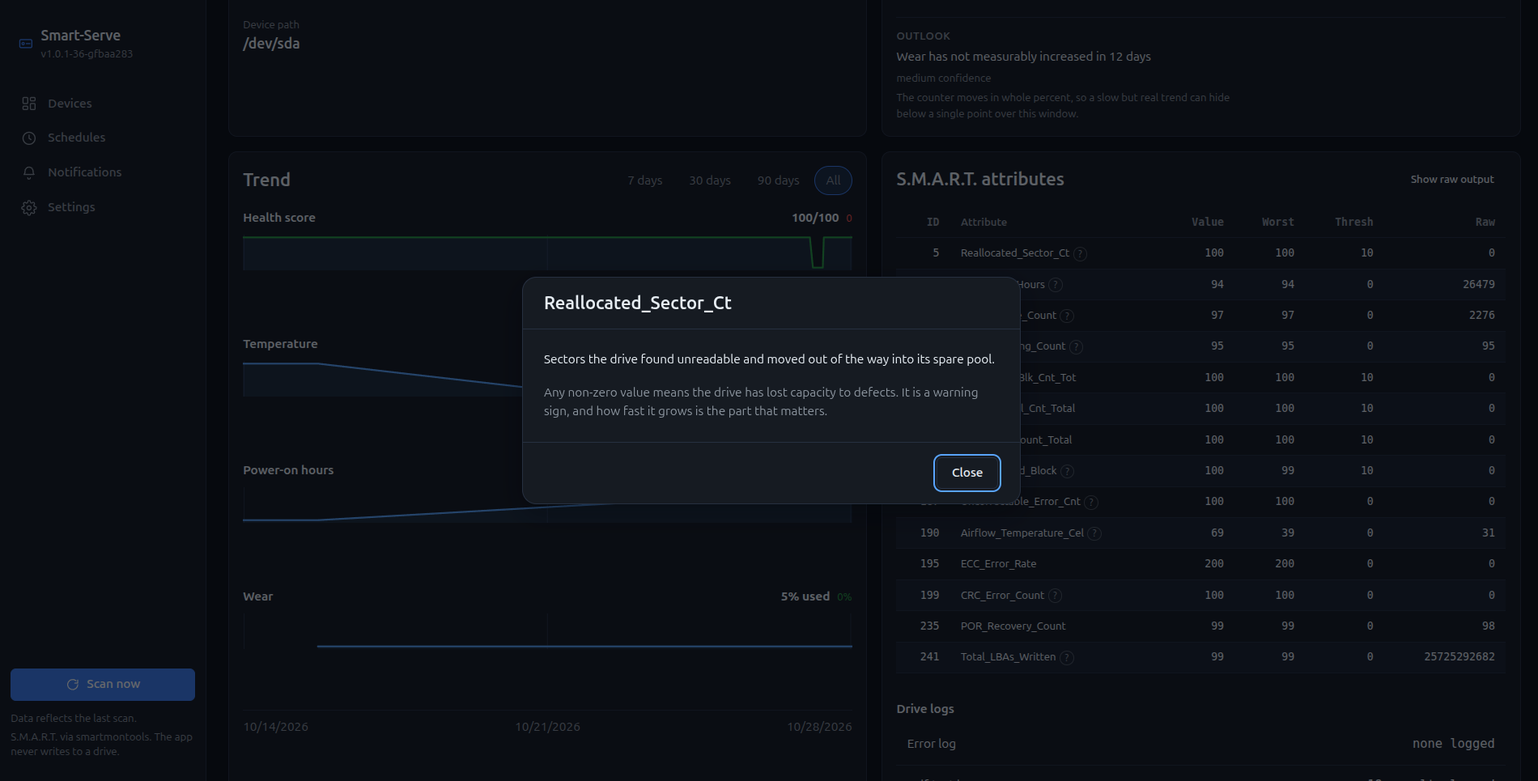
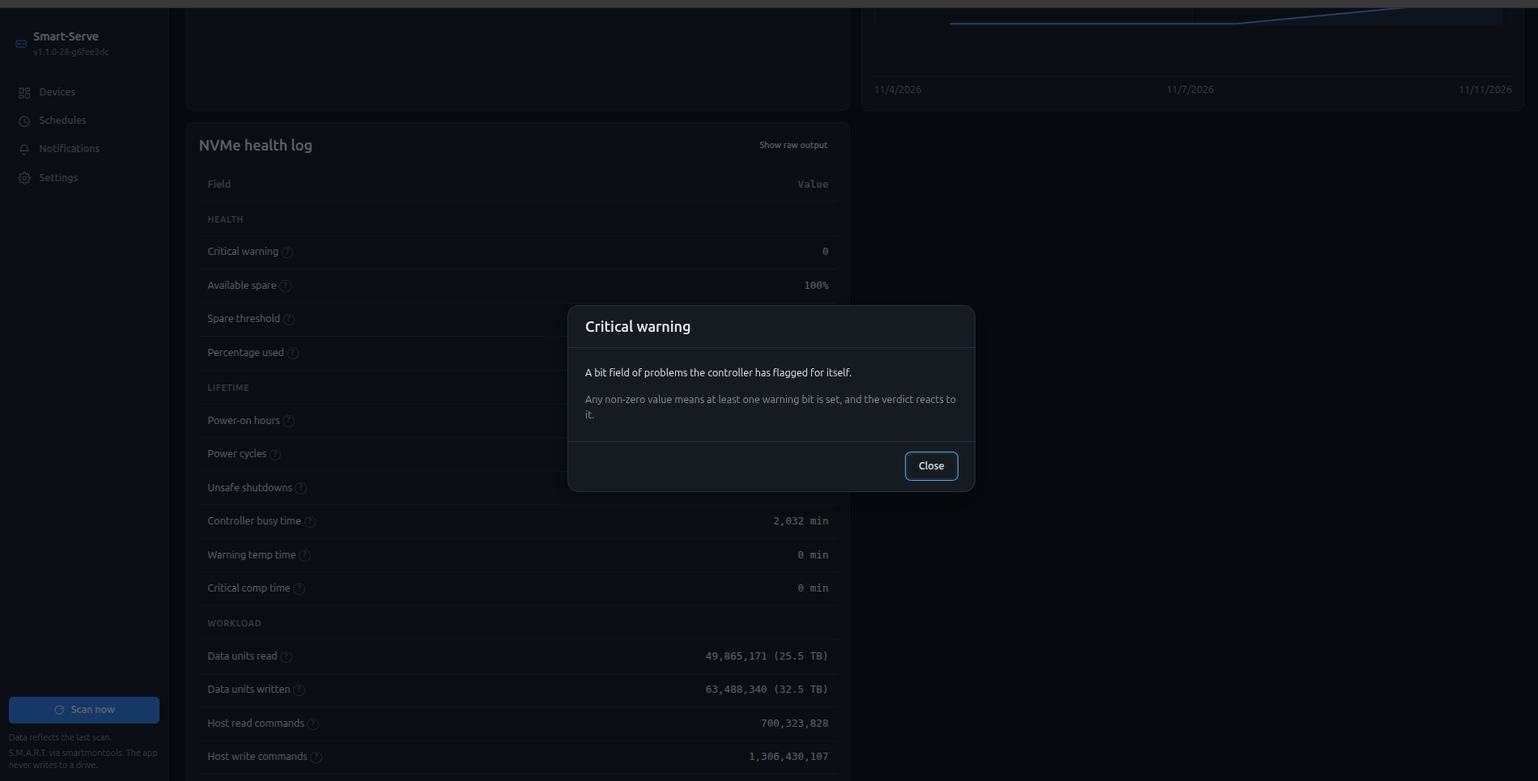
docs: the ARM retest passes, and the screenshots are current
The 2026-11-11 retest, recorded where it belongs.

**Both defects the Pi found are fixed and confirmed fixed**, on the Pi and on
amd64, in both variants of the self-test check: staying on the page, the bar
cleared by itself when the drive finished with no `Scan now` and no unread-log
notice; leaving for the fleet, the testing badge tracked the run and cleared with
it. The SD-card page left open produces no flicker and no toast storm, and the
dashboard/disconnected checks pass. Pass 8 keeps the failure record and gains a
retest table, so the record reads as a history rather than as an open bug list.

One caveat recorded rather than smoothed over: the retest was against a local
build of the fixes, not the published image.

**The idle budget is the one ARM criterion still open, and it cannot be settled
on that host as things stand.** CPU passes — about 0.02% over an idle minute, with
the scan count unchanged — but `docker stats` reports `0B / 0B` for memory there,
leaving the process's own `VmRSS` at 21.25 MiB. That is not the metric the
under-20-MB criterion names, and the two are not interchangeable: on the amd64
host the same build reads 18.4 MiB by `docker stats` and 30.0 MiB by `VmRSS`. The
note now says so, and gives the cgroup read that would produce a comparable
figure, instead of leaving a 21.97 MiB sample to be read as a failure.

Screenshots replaced with current ones — the fleet with storage bars, the
[…]

diff --git a/docs/TESTING.md b/docs/TESTING.md
@@ -221,27 +221,17 @@ The maintenance card is absent when there are no windows — that is the design,
 
 ## Pass 8 — arm64 (Raspberry Pi)
 
-**Status: partial hardware verification, updated 2026-11-08.** Smart-Serve is running on a
-Raspberry Pi 5 with DietPi. The operator previously reported building, starting and scanning;
-the supplied SSH outputs confirm native arm64 execution, HTTP health, device-access configuration,
-USB SAT discovery and a successful full smartctl read of the attached WDC disk. The operator has
-also completed an app scan and verified its displayed identity, attribute count and selected raw
-values. A short test completed without error, but the automatic UI completion check **failed**:
-the page stayed at `90% left` after waiting and reloading. The live API reported completion,
-while the captured saved record contained `remaining: 90` and an unread-log flag, matching the
-source path that skips a live refresh. **That path is fixed** (see 8.8): the flag was raised for a
-log the app *does* read, and the card no longer skips its live read. The operator then clicked
-**Scan now**: the progress bar cleared, short/long test buttons returned, and the successful history
-entry appeared and persisted after reload — so **manual recovery and completed-history display
-passed**, and the automatic-completion check needs a retest against the fixed build. A similar
-symptom is reported on amd64, so an ARM-specific fault is not established. The SD card is visible in
-the app, but opening its page caused flicker and repeated `scan complete: 0/1 readable` toasts: its
-no-repeat-scan check **failed**. The API confirms `last_scan: null`, a device-type detection error
-and five failed device reads in the same displayed second, matching the retry path in source.
-**That loop is fixed too** (see 8.9): at most one attempt per refresh window, per drive. Returning
-to the dashboard stops the repeated scans, which remains the workaround for any build without the
-fix. Both defects need a retest on this hardware; the next check compares dashboard health and
-disconnected-device display with the API. Other checks and parity remain open.
+**Status: both defects found here are fixed and retested; idle acceptance and stability remain open.
+Updated 2026-11-11.** Smart-Serve runs on a Raspberry Pi 5 with DietPi, and the SSH outputs and operator
+reports confirm native arm64 execution, HTTP health, device-access configuration, USB SAT discovery, a
+full container smartctl read of the attached WDC disk, and the app's displayed identity, attribute count
+and raw values. The 2026-11-08 session then turned up two defects — a short test whose progress never
+cleared, and an SD-card page that re-read itself in a loop — both diagnosed from that session's own
+captures and fixed (8.8, 8.9). **Both were retested on 2026-11-11 against `v1.1.0-28-g6fee3dc` and
+passed**, on this Pi *and* on the amd64 host, together with the dashboard and disconnected-device checks.
+The idle budget is the one ARM criterion still unsettled: CPU is confirmed near zero, but this host
+reports no usable Docker memory figure, so the under-20-MB claim cannot be measured here with the same
+metric the reference host used (8.5).
 CI builds both architectures but does not run the application against ARM hardware.
 
 This section is the ARM verification record; setup is in
@@ -286,12 +276,12 @@ Existing test numbers are retained so subsequent results can refer to them.
 | 8.2 | Device-access setup, startup probe and HTTP health. | **Verified for this setup.** Probe: `device access ok`, `devices=2`, `probed=/dev/sda`; server listening on `:8080`; Docker `healthy`. This probe alone does not verify full SMART reads or every drive. |
 | 8.3 | Container SMART read and app scan, identity and attribute-table checks. | **Passed for this disk/setup.** The container read returned exit 0. The operator completed an app scan and confirmed the WDC model, matching serial, 17 attributes and raw values 0 for IDs 5, 197 and 198, with no apparent errors or missing values. Other displayed fields were not individually compared. |
 | 8.4 | USB transport and any required override. | **SAT discovery, explicit SAT read and app scan verified for current settings.** `--scan-open` detected `sat` / `ATA`; the full read succeeded with `-d sat`. The app also reads the disk successfully. Its override setting was not reported, so automatic-vs-manual transport selection is not established. Override controls, bridge chipset and any second bay remain unverified. |
-| 8.5 | Ten-minute idle CPU/RSS measurement with no browser, scan or self-test active. | **Single sample recorded; idle acceptance pending.** CPU `0.04%`; process RSS/high-water mark `22,496 kB` (about **21.97 MiB**); 11 threads; 16 file descriptors; restart count 0; `OOMKilled=false`. Browser/workload conditions were not captured. |
+| 8.5 | Ten-minute idle CPU/RSS measurement with no browser, scan or self-test active. | **CPU passed; memory cannot be measured with the criterion's own metric on this host.** Across a 61-second sample inside a 10-minute idle period, the process used **1 CPU tick** — about **0.02%** — and the scan count was unchanged (44 before and after), so nothing ran. `docker stats` reports **`0B / 0B`** for memory here (see the note below), leaving the process's own `VmRSS` as the only figure: **21.25 MiB**, flat across the sample. That is *not* the metric the criterion was written against — the reference host's 13.36 MiB came from `docker stats` — and the two are not interchangeable: on the amd64 host this same build reports **18.4 MiB** by `docker stats` and **30.0 MiB** by `VmRSS`. So this host is very probably inside the budget, and this capture does not prove it. |
 | 8.6 | NVMe temperature, health fields and comparison with amd64. | **Not tested.** No NVMe device appears in this capture. |
 | 8.7 | Overnight scheduled scans and stable memory/file-descriptor usage. | **Not tested.** Startup and later log timestamps alone do not establish a controlled stability run. |
-| 8.8 | App-triggered short self-test: start, progress, completion and result after page reload. | **Drive completion passed; UI running-state check failed, and the cause is now fixed — retest needed.** Direct smartctl output shows execution status 0 and the newest short test `Completed without error` at 45,446 hours. The operator confirmed the app continues showing `90% left` and only **Stop test** after extended waiting and manual reload. The live API confirmed completion (`passed: true`, no `running`) but also set `self_test_log_unread` for the selective-test log; the saved record from 16:02:49 UTC (scan 18) carried that flag and `remaining: 90`. **Fixed:** the flag was raised for a log the app reads (see the 8.8 fix note below), and the card no longer skips its live read on mount. **Manual recovery and completed-log visibility passed:** after **Scan now**, the progress bar disappeared, short/long buttons returned and the successful short offline entry was visible; these results survived a page reload. Exact duration remains unverified, and the fixed build has not been run on this hardware. A similar symptom is reported on amd64. |
-| 8.9 | SD-card discovery in the app, unsupported-SMART notice and absence of repeated automatic scans. | **App visibility verified; no-repeat-scan check failed, and the cause is now fixed — retest needed.** The API reports `last_scan: null`, `smart_available: false`, health/cause `unknown`, and `Unable to detect device type`. Scan IDs 175–179 each record one failed device read at 22:09:03 UTC. The operator confirms the repeated scans occur on the SD-card page and stop on returning to the dashboard. **Fixed:** the staleness re-read is now bounded to one attempt per refresh window, per drive (see the 8.9 fix note below). Dashboard health rendering and the detail-page notice remain unverified; the fixed build has not been tested on amd64. |
-| 8.10 | Disconnected-device inventory and dashboard filter. | **API state captured; UI check pending.** Three historical records have `is_missing: true`; the SD card and tested 2 TB WDC disk have `is_missing: false`. This records API state, not independent verification of physical attachment or a hotplug/reconnect test. |
+| 8.8 | App-triggered short self-test: start, progress, completion and result after page reload. | **Drive completion passed; UI running-state check failed, and the cause is now fixed — retest needed.** Direct smartctl output shows execution status 0 and the newest short test `Completed without error` at 45,446 hours. The operator confirmed the app continues showing `90% left` and only **Stop test** after extended waiting and manual reload. The live API confirmed completion (`passed: true`, no `running`) but also set `self_test_log_unread` for the selective-test log; the saved record from 16:02:49 UTC (scan 18) carried that flag and `remaining: 90`. **Fixed:** the flag was raised for a log the app reads (see the 8.8 fix note below), and the card no longer skips its live read on mount. **Manual recovery and completed-log visibility passed:** after **Scan now**, the progress bar disappeared, short/long buttons returned and the successful short offline entry was visible; these results survived a page reload. **Retested 2026-11-11 on `v1.1.0-28-g6fee3dc` — passed**, on this Pi and on the amd64 host, in both variants: staying on the page, the progress cleared **on its own** when the drive finished, the buttons returned and the log gained the completed entry; leaving the page and watching the fleet, the testing badge tracked the run and cleared with it. No unread-log notice appeared. Exact duration remains unverified. |
+| 8.9 | SD-card discovery in the app, unsupported-SMART notice and absence of repeated automatic scans. | **App visibility verified; no-repeat-scan check failed, and the cause is now fixed — retest needed.** The API reports `last_scan: null`, `smart_available: false`, health/cause `unknown`, and `Unable to detect device type`. Scan IDs 175–179 each record one failed device read at 22:09:03 UTC. The operator confirms the repeated scans occur on the SD-card page and stop on returning to the dashboard. **Fixed:** the staleness re-read is now bounded to one attempt per refresh window, per drive. **Retested 2026-11-11 on `v1.1.0-28-g6fee3dc` — passed:** leaving the SD card's page open produced no flicker and no toast storm. The per-window read count was not re-measured in this retest, and the detail-page notice remains unverified. |
+| 8.10 | Disconnected-device inventory and dashboard filter. | **Passed 2026-11-11.** With filters clear the SD card reads **Unknown** and the tested 2 TB WDC disk reads **Good**, and **Show 3 disconnected** lists the three historical records. This verifies rendering of the saved API state, not physical hotplug detection. |
 
 **Observations to retain for follow-up:**
 
@@ -306,10 +296,10 @@ Existing test numbers are retained so subsequent results can refer to them.
   and `/`; the container instead sees its own mounts, including `/data` and `/etc/hosts`.
   The latest API storage summary selects `/etc/resolv.conf` at 19% used. Host mountpoint and
   filesystem-usage parity are not verified by this container-visible figure.
-- Docker reported memory as `0B / 0B`, which is not a usable memory measurement here; its cause
-  remains unverified. The process RSS above comes from `/proc/1/status`. It exceeds the stated
-  under-20-MB target at that instant, so do not mark the ARM idle budget as passed. Repeat under
-  controlled idle conditions; keep container memory and process RSS separate.
+- Docker reported memory as `0B / 0B` on the Pi, which is not a usable memory measurement; its cause
+  remains unverified. The process's own `VmRSS` from `/proc/1/status` is the only figure available, and
+  it is not the metric the MVP criterion names — see 8.5. Keep container memory and process RSS separate
+  when reading any figure from this host.
 - `scheduler started` and `dispatching notifications` appeared in the logs. Neither proves
   scheduled scans completed or a notification reached its destination.
 
@@ -413,20 +403,36 @@ Returning to the dashboard stops it, which was the workaround.
 window is the pass, not five in a second, and reopening after the window elapses should produce one
 more. Covered by `a drive that cannot be read is not read over and over`; the hardware does not.
 
-### Next step — 8.9/8.10, dashboard health and disconnected-device display
+### Retested — 8.8 and 8.9 both pass, 2026-11-11
 
-Stay on the dashboard; do not reopen the SD-card detail page for these checks.
+Both defects were retested against `v1.1.0-28-g6fee3dc` — the local development image built from the
+fixes — on this Pi **and** on the amd64 host. Same actions that failed on 2026-11-08:
 
-1. With display filters clear, confirm that the SD card shows **Unknown** and the tested 2 TB WDC
-   disk shows **Good**. Report the actual labels if different.
-2. Click **Show 3 disconnected** and check that the Samsung 250 GB SSD (`S21NNSAFC00417P`) and the
-   two 10 TB WDC disks (`VCKJ5Y0P`, `VCKJ95DP`) appear as disconnected records. If they are already
-   shown, use the corresponding **Hide** toggle to verify filtering, then restore the preferred view.
-   Do not open their detail pages or run scans for this check.
+| Check | Result |
+|---|---|
+| 8.8 short test, staying on the page | **Passed, both hosts.** Progress cleared on its own when the drive finished; the short/long buttons returned; the log gained the completed entry. No **Scan now** needed, and no unread-log notice. |
+| 8.8 short test, leaving for the fleet | **Passed, both hosts.** The testing badge tracked the running test and cleared when it finished. |
+| 8.9 SD-card page left open | **Passed.** No flicker, no `0/1 readable` toast storm. |
+| 8.10 dashboard health and disconnected display | **Passed.** SD card **Unknown**, WDC disk **Good**; **Show 3 disconnected** lists the three historical records. |
 
-This validates rendering of the saved API state, not physical hotplug detection. Both defects above
-are fixed in source and need a retest on this hardware. Resource/stability, scheduling and
-restart/reboot checks remain pending.
+The retest was against a **local build**, not the published image — the source is identical and CI
+builds the same Dockerfile, but the record should say so. Re-running the 8.8 check against the
+published tag takes about four minutes and is worth doing if the release needs that stronger claim.
+
+### Still open on this hardware
+
+1. **Idle budget (8.5).** CPU is confirmed near zero; memory needs a figure this host can produce.
+   `docker stats` reports `0B / 0B` here, so read the container's own cgroup instead:
+   ```sh
+   docker exec smart-serve-dev sh -c \
+     'cat /sys/fs/cgroup/memory.current 2>/dev/null || \
+      cat /sys/fs/cgroup/memory/memory.usage_in_bytes 2>/dev/null'
+   ```
+   That is the number `docker stats` is derived from, so it is directly comparable with the reference
+   host's 13.36 MiB.
+2. **8.7 overnight stability** — scheduled scans and stable memory/file-descriptor use over a full night.
+3. **8.6 NVMe** — no NVMe device is attached to this host.
+4. **Restart/reboot persistence**, and identity across a different enclosure bay.
 
 ## Pass 7 — cross-cutting
 

diff --git a/docs/RELEASE.md b/docs/RELEASE.md
@@ -91,10 +91,12 @@ migrations (`0015`–`0017`); no schema rewrite, so the v1.1.0 rollback note sti
   no-partition-table path names a disk by its `blkid` signature — `linux_raid_member`, and so on — and
   the fixtures prove the naming, but nothing has pulled a disk from an array and opened its page
   (`TESTING.md` 4.73, `FEATURES.md` A28). This is the weakest claim in the release.
-- **arm64: the two fixed defects need a retest on the Pi**, and **idle-budget acceptance is unmeasured
-  there.** The first RSS sample was 21.97 MiB, above the MVP's under-20-MB criterion — but it was not a
-  controlled idle measurement, and the reference host measures 13.4 MiB. Do not read the release as
-  passing that criterion on ARM until it is measured properly (`TESTING.md` Pass 8).
+- **arm64 idle-memory acceptance is unmeasured**, and cannot be measured on that host as things stand —
+  `docker stats` reports `0B / 0B` there. CPU is confirmed near zero (about 0.02% over an idle minute,
+  with the scan count unchanged). The process's own `VmRSS` is 21.25 MiB, which is *not* the metric the
+  under-20-MB criterion names: on the amd64 host the same build reads **18.4 MiB** by `docker stats` and
+  **30.0 MiB** by `VmRSS`. Read the container's cgroup for a comparable figure (`TESTING.md` Pass 8).
+  The two defects this host found are fixed and **retested on 2026-11-11**, on both architectures.
 - **The image size was last measured at v1.0.0** (14.8 MB content / 53.5 MB on disk, 2026-10-17). This
   release changes no base image and adds no runtime dependency, so those figures should still hold —
   but `Dockerfile` installs `smartmontools` and `util-linux` **unpinned**, so the base is not actually
@@ -108,20 +110,23 @@ breakdown's `attribute_id` — the v1.1.0 note asking for it is done (`FEATURES.
 artifact rather than a local build — and every ARM check so far has been against a local development
 image. Tag `v1.2.0` once that retest passes.
 
-## Screenshots to take
+## Screenshots
 
-Needed for the README and for the release announcement. In priority order:
+The README's set, cropped to the app viewport and committed to `docs/images/`:
 
-1. **Dashboard** with several drives attached — verdict badges, health gauges, and the
-   clickable health summary beside the search box. This is the hero shot.
-2. **Device page, top half** — verdict, score and grade, the identity grid, temperature.
-3. **Attribute table with a `?` explanation open** (`FEATURES.md` A12). This is the most
-   distinctive thing the app does, and it is invisible in every other screenshot.
-4. **Trend sparklines** with a hover readout showing value, date and time.
-5. **A notification** — either the message as received, or the channel editor.
+| File | Shows |
+|---|---|
+| `dashboard.png` | The fleet: verdict badges, scores, the storage bar on each card, the last-scan line, the health summary |
+| `device-page.png` | A drive's top half: verdict, score and grade, identity, temperature, the scan age beside the name |
+| `partitions.png` | The partition card: the disk map above the table, linked both ways |
+| `attribute-explanation.png` | A `?` explanation open over the attribute table |
+| `selftest-card.png` | The self-test card: the buttons and the drive's own self-test log |
 
-Store them in `docs/images/` and reference them from `README.md`. Keep them at a consistent
-width and theme; the dark theme shows the palettes off best.
+**Take them as viewport captures, not full screens**, so no cropping is needed — Firefox's right-click
+*Take Screenshot* → *Save visible*, or Chrome DevTools → `Ctrl+Shift+P` → *Capture screenshot*. Keep
+them at one consistent window size (the committed ones are 1900×965) and on the dark theme, which
+shows the palettes off best. Full-screen captures with browser chrome in them go in
+`temp screenshots/`, which is gitignored and keeps them out of the history.
 
 ## Image size
 
@@ -153,29 +158,23 @@ three device-access gates is closed if it cannot (`DEPLOYMENT.md`).
 
 ## arm64 verification (Raspberry Pi)
 
-**Current status (2026-11-08): partial hardware verification on Raspberry Pi 5 / DietPi.**
-Native `linux/arm64` execution, the reference device-access configuration, startup probe,
-HTTP health, USB SAT auto-detection and a full container SMART read of the attached WDC disk are
-confirmed. The operator also verified the app's model, serial, 17 attributes and selected raw
-values after a completed scan, with no apparent errors. The local development image reports
-`v1.1.0-23-g949fbd6`. This is not verification of the published GHCR image or full amd64 parity.
-A later direct read confirmed a short self-test completed without error. Automatic UI completion
-failed: 90% left and **Stop test** persisted after waiting/reloading. The live API returned the
-completed history with no `running` field, while the saved record contained 90% progress and an
-unread-log flag — and **that pairing was the bug, which is now fixed**: the flag was raised for a
-log the app reads (`ata_smart_selective_self_test_log`), and the card skipped its live read because
-of it. **Manual recovery passed:** after **Scan now**, idle controls and successful history returned
-and persisted after reload. The same symptom is reported on amd64, so an ARM-specific cause was
-never in play. A second failed check concerns the SD-card page: opening it caused flicker and
-repeated `0/1 readable` scan toasts. The captured `last_scan: null`, device-type detection error and
-five failed device reads in the same displayed second pinned that to the staleness re-read —
-**also fixed**, now one attempt per refresh window per drive. This second symptom has only been
-reported on the Pi. Both fixes need a retest on this hardware.
+**Current status (2026-11-11): verified in part on Raspberry Pi 5 / DietPi.** Native `linux/arm64`
+execution, the reference device-access configuration, startup probe, HTTP health, USB SAT
+auto-detection and a full container SMART read of the attached WDC disk are confirmed, as are the app's
+model, serial, 17 attributes and selected raw values after a completed scan. This is not verification of
+the published GHCR image, nor full amd64 parity.
 
-[TESTING.md Pass 8](TESTING.md#pass-8--arm64-raspberry-pi) holds the dated evidence, image ID,
-individual test statuses and the single next check. Keep that record authoritative rather than
-duplicating the checklist here. A first process RSS sample is **21.97 MiB**, above the stated
-under-20-MB target; controlled idle conditions and overnight stability have not been measured.
+The 2026-11-08 session on this host (then `v1.1.0-23-g949fbd6`) turned up two defects — a short test
+whose progress never cleared, and an SD-card page that re-read itself in a loop. Both were diagnosed
+from that session's own captures, fixed, and **retested on 2026-11-11 against `v1.1.0-28-g6fee3dc`, on
+this Pi and on amd64 — both pass.** The retest ran against a local build of the fixes rather than the
+published image.
+
+**Still open:** the idle *memory* figure, which this host cannot report at all (CPU is confirmed near
+zero), overnight stability, NVMe, and restart/reboot persistence.
+
+[TESTING.md Pass 8](TESTING.md#pass-8--arm64-raspberry-pi) holds the dated evidence, image IDs and
+per-check statuses. Keep that record authoritative rather than duplicating the checklist here.
 
 For further verification:
 

diff --git a/README.md b/README.md
@@ -9,7 +9,7 @@ at ~0% CPU and ~10–15 MB RAM. It only wakes up when you look at it, when you p
 **Scan**, or when a scheduled scan fires. No polling loops, no metrics scrapers, no
 database daemon.
 
-![The dashboard: one card per drive, with verdict, score and last scan](docs/images/dashboard.png)
+![The dashboard: one card per drive, with verdict, score, storage and last scan](docs/images/dashboard.png)
 
 ## Feature highlights
 
@@ -48,17 +48,23 @@ database daemon.
 
 **A device page** — verdict, score, identity, usage, and the trend sparklines.
 
-![The device page for a Samsung SSD](docs/images/device-page.png)
+![The device page for a drive](docs/images/device-page.png)
+
+**Partitions** — a map of the disk above the table of what is on it. The two are linked **both ways**:
+point at a segment and the row it stands for is marked; point at a row and the segment is.
+
+![The partition card: a disk map above a table of partitions](docs/images/partitions.png)
 
 **Attribute help** — every attribute the interpreter acts on carries a `?` explaining what it is
 and how to read it.
 
 ![An attribute explanation open over the attribute table](docs/images/attribute-explanation.png)
 
-**A self-test running** — the one place the UI reads a drive live, and only while a test it
-started is still running.
+**The self-test card** — a test is started from here, and its progress and history appear in the same
+card. This is the one place the UI reads a drive live, and only while a test it started is still
+running.
 
-![The self-test card mid-test, with progress and a Stop test button](docs/images/selftest-progress.png)
+![The self-test card, with the test buttons and the drive's own self-test log](docs/images/selftest-card.png)
 
 ## Quick start
 
@@ -187,11 +193,11 @@ instance with no browser open: **0.00% CPU, 13.4 MiB RSS**.
 
 **ARM verification is partial.** On a Pi 5 running DietPi, native arm64 execution, startup health,
 a full container SMART read through USB SAT and app identity/attribute checks are confirmed for
-the tested disk (2026-11-08). The first process RSS sample was **21.97 MiB**; the idle figure above
-is from the earlier validation host. That session surfaced two defects — a self-test progress bar
-stuck at a percentage the drive's own log had moved past, and an SD-card page that re-read itself
-in a loop — **both fixed and awaiting a retest on the Pi**. Stability and broader feature checks
-remain open. See [the ARM test record](docs/TESTING.md#pass-8--arm64-raspberry-pi).
+the tested disk. Two defects that host surfaced — a self-test progress bar stuck at a percentage the
+drive's own log had moved past, and an SD-card page that re-read itself in a loop — are **fixed and
+retested on both architectures**. Idle CPU is confirmed near zero; the idle memory figure is not
+measurable on that host. Overnight stability and NVMe checks remain open. See
+[the ARM test record](docs/TESTING.md#pass-8--arm64-raspberry-pi).
 
 ## License
 

diff --git a/docs/SCOPE.md b/docs/SCOPE.md
@@ -79,17 +79,16 @@ long-running instance with no browser open, `docker stats` reports **0.00% CPU**
 **13.36 MiB** RSS — inside the "near zero" and "under 20 MB" the MVP was written against. See
 `RELEASE.md` for how to re-measure.
 
-**ARM coverage (2026-11-08): partial.** The Pi 5 / DietPi development deployment confirms native
-arm64 execution, startup health and a full container SMART read through USB SAT. After an app scan,
-the operator verified the tested disk's model, serial, 17 attributes and selected raw values, with
-no apparent errors. Its first process RSS sample is **21.97 MiB**; the resource figures above are
-not measurements from this Pi. That session surfaced two defects — the self-test progress bar sticking
-at a percentage the drive's own log had already moved past, and an SD-card page that re-read itself in
-a loop — **both fixed and awaiting a retest on this hardware**. Returning to the dashboard stops the
-loop, which is the workaround for any build without the fix. The next check compares dashboard health
-and disconnected-device display with the API. Controlled idle-budget acceptance, persistence across
-restart/reboot, overnight stability and broader parity remain unverified.
-[TESTING.md Pass 8](TESTING.md#pass-8--arm64-raspberry-pi) records the evidence and next test.
+**ARM coverage (2026-11-11): verified in part.** The Pi 5 / DietPi development deployment confirms
+native arm64 execution, startup health and a full container SMART read through USB SAT. After an app
+scan, the operator verified the tested disk's model, serial, 17 attributes and selected raw values, with
+no apparent errors. The 2026-11-08 session surfaced two defects — the self-test progress bar sticking at
+a percentage the drive's own log had already moved past, and an SD-card page that re-read itself in a
+loop — **both fixed and retested on this hardware and on amd64**. Idle CPU is confirmed near zero
+(about 0.02%); the idle *memory* figure is still not measurable here, because this host reports no usable
+Docker memory number (see `TESTING.md` Pass 8). Overnight stability, NVMe and restart/reboot checks
+remain unverified.
+[TESTING.md Pass 8](TESTING.md#pass-8--arm64-raspberry-pi) records the evidence and what is left.
 
 **Documentation corrected for the public release.** Three claims did not match the code and
 were fixed rather than carried into a release: the image is Alpine, not distroless

diff --git a/docs/DEPLOYMENT.md b/docs/DEPLOYMENT.md
@@ -389,13 +389,14 @@ So the app can be developed and previewed outside a deployment host:
 
 ### A Raspberry Pi as a development host
 
-**Verified in part on a Pi 5 running DietPi, as of 2026-11-08.** The development container runs
+**Verified in part on a Pi 5 running DietPi, as of 2026-11-11.** The development container runs
 natively on arm64, reports healthy, reads the attached USB SATA disk's full SMART data through SAT,
 and an app scan shows the matching model, serial and 17 attributes with the selected raw values
-verified. That session surfaced two defects — a self-test progress bar stuck at a percentage the
-drive's own log had moved past, and an SD-card page that re-read itself in a loop — **both fixed,
-both awaiting a retest on the Pi**. Stability checks remain pending. Results and the next check are
-in [TESTING.md Pass 8](TESTING.md#pass-8--arm64-raspberry-pi).
+verified. Two defects this host surfaced — a self-test progress bar stuck at a percentage the drive's
+own log had moved past, and an SD-card page that re-read itself in a loop — are **fixed and retested
+here**. Idle CPU is near zero; the idle memory figure is not measurable on this host. Overnight
+stability and NVMe checks remain pending. Results are in
+[TESTING.md Pass 8](TESTING.md#pass-8--arm64-raspberry-pi).
 
 Use a 64-bit Linux installation. Check `uname -m` (`aarch64`), `getconf LONG_BIT` (`64`), and
 the Docker server/image architecture; the image must be `linux/arm64`. No ARMv7 image is published.
